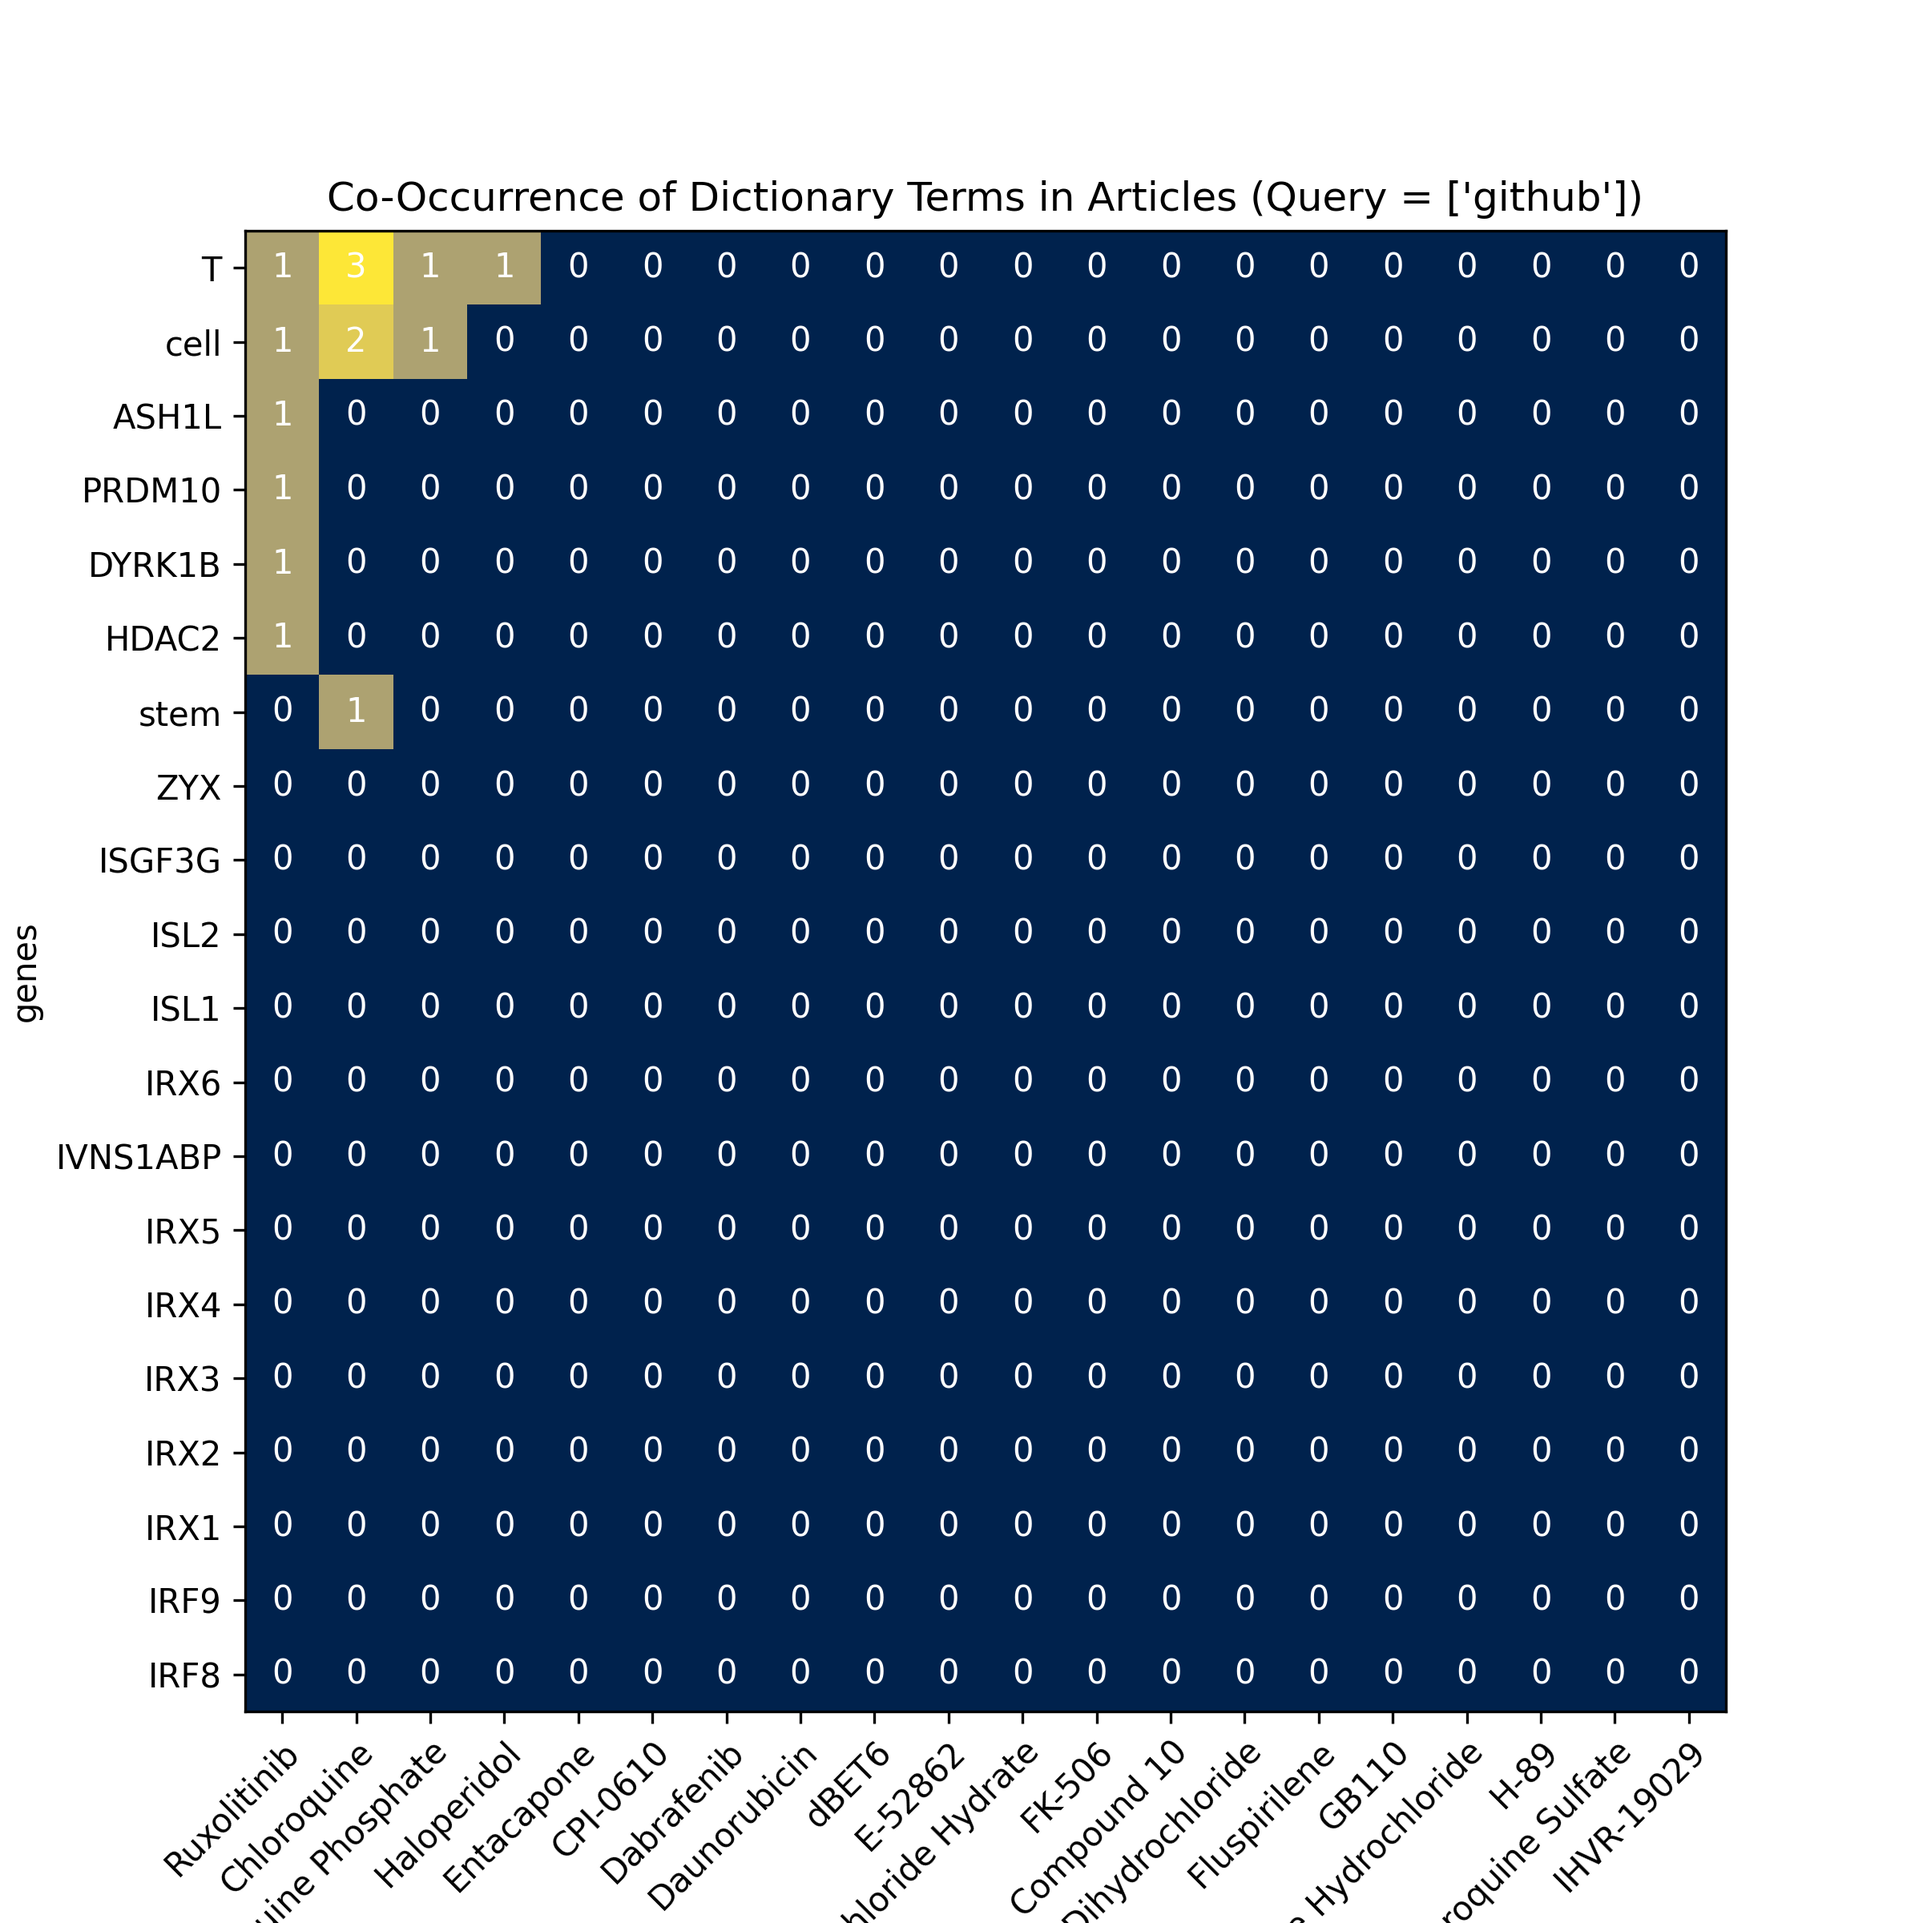
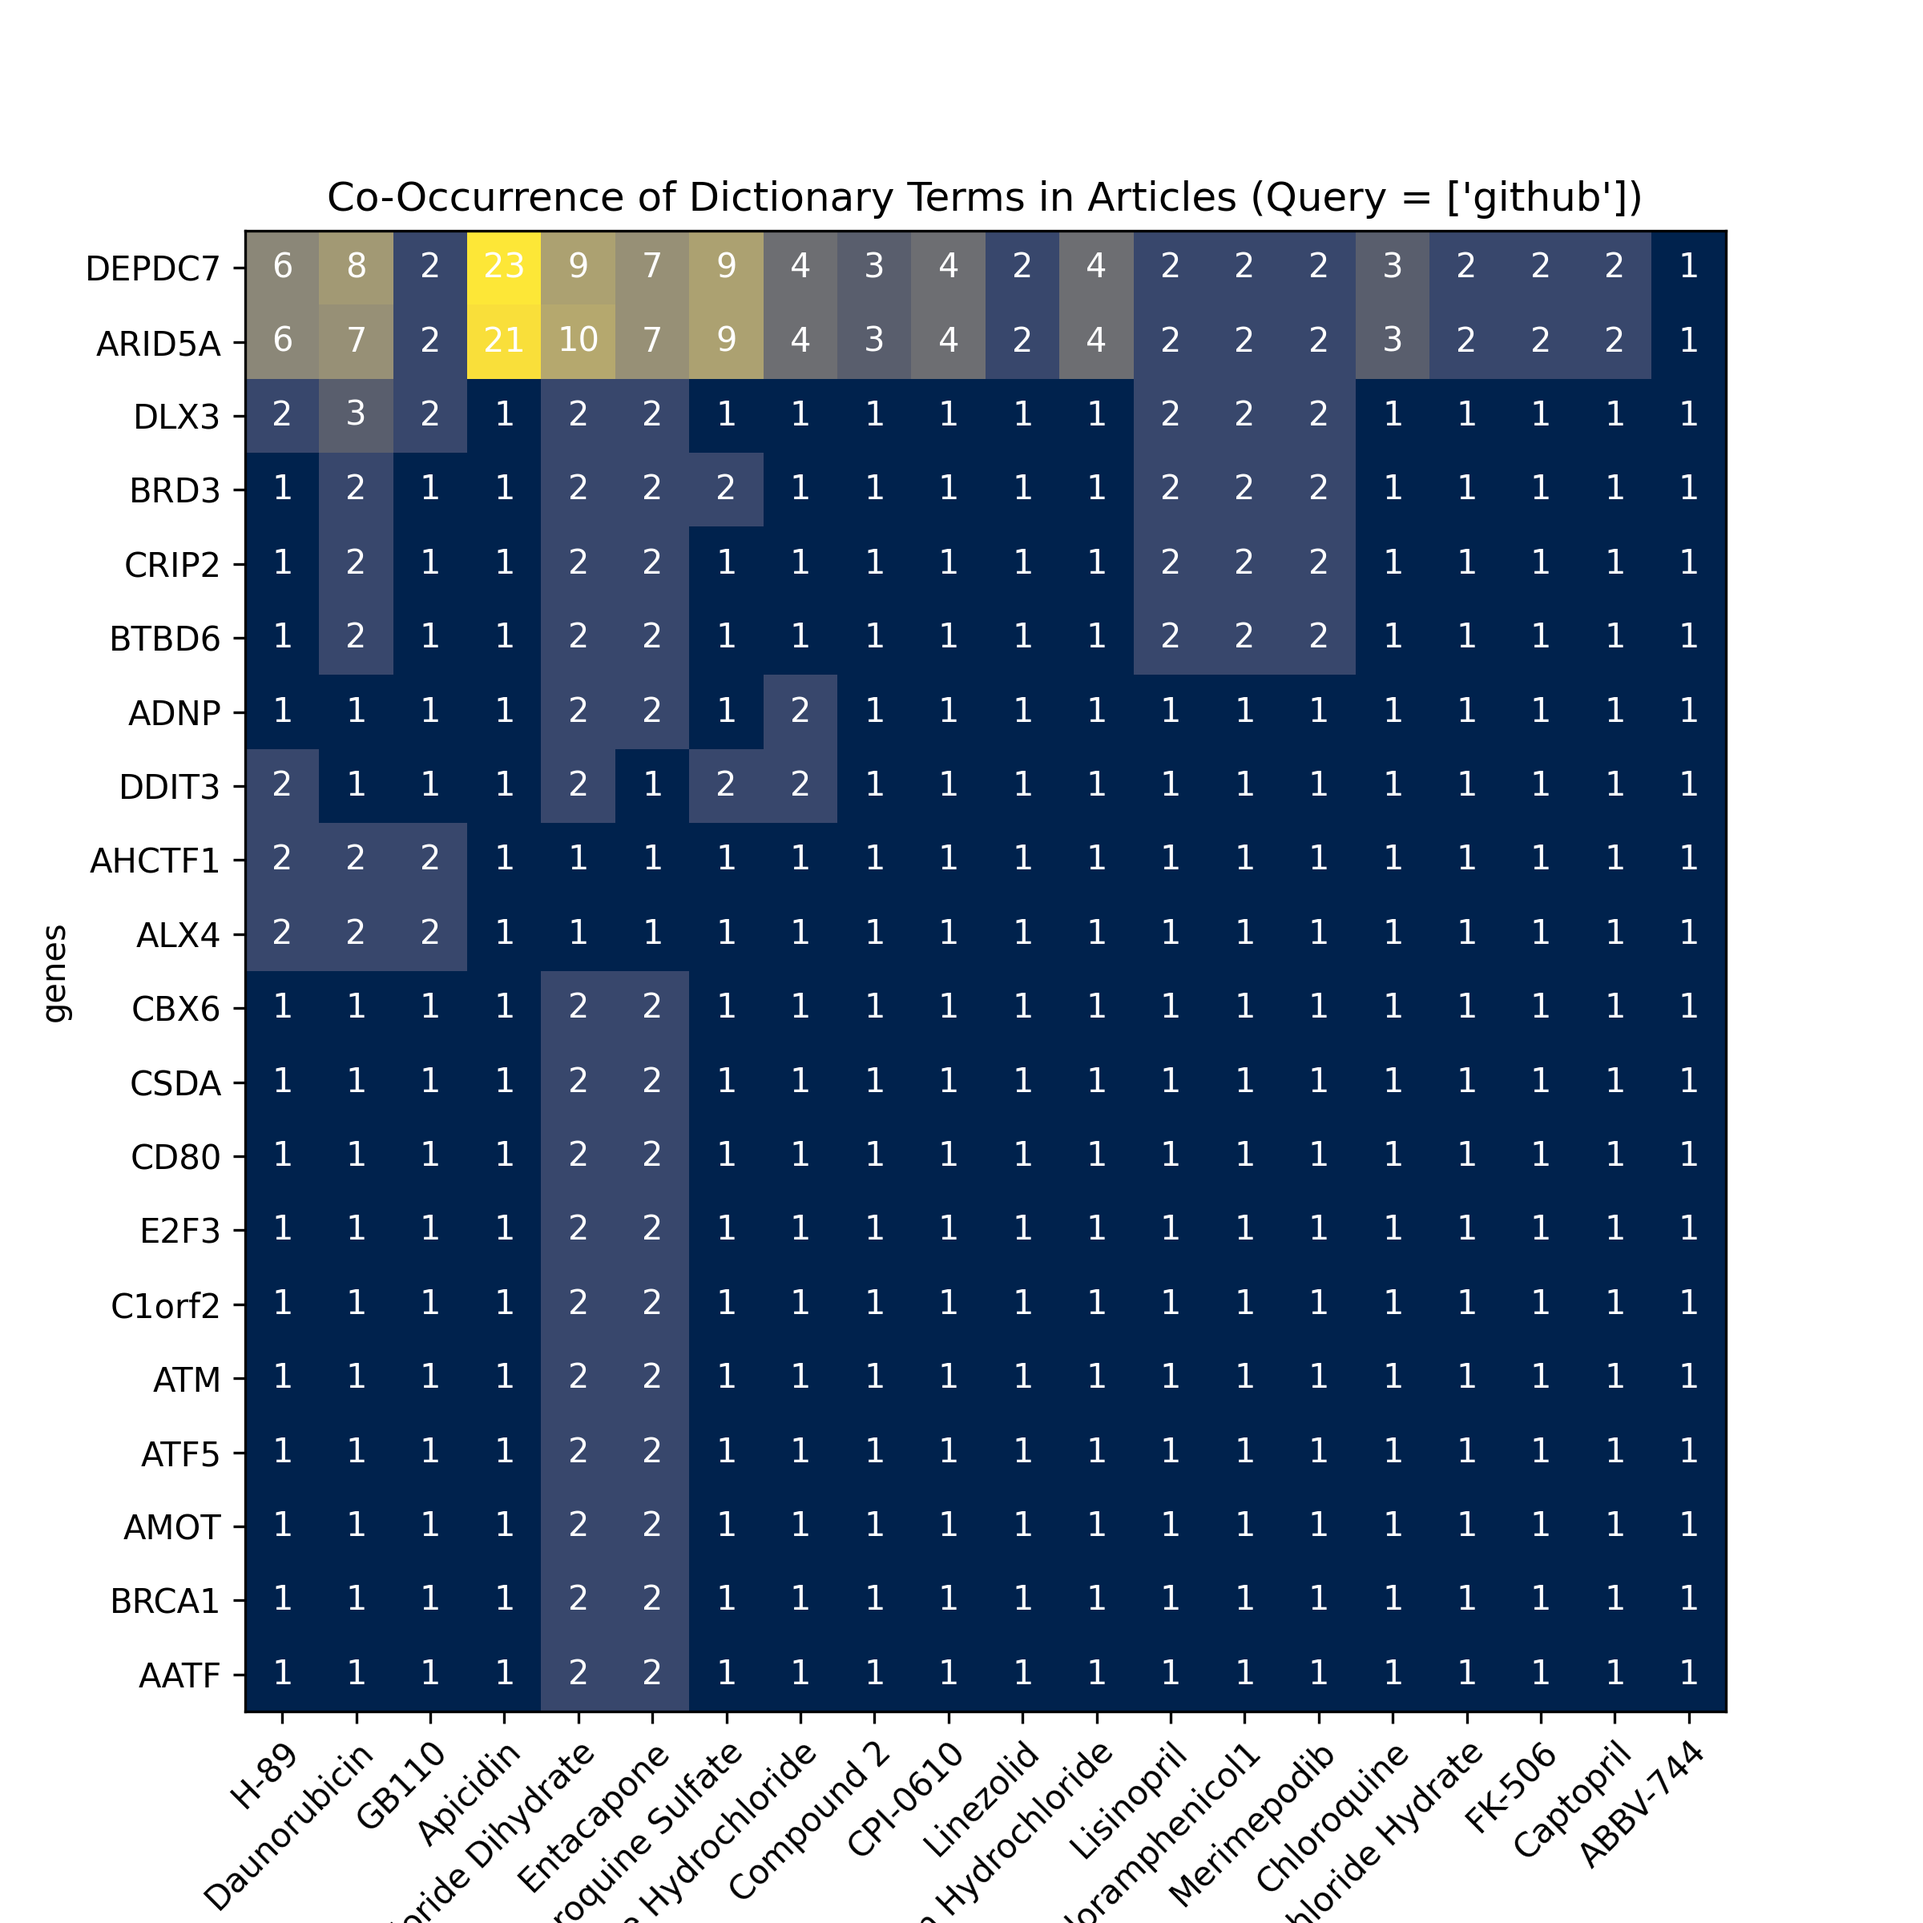
Update: remove empty rows & cols

diff --git a/python_sandbox/notebooks/xdd_cooccurrence.py b/python_sandbox/notebooks/xdd_cooccurrence.py
@@ -29,8 +29,10 @@ def build_coocc_matrix(
         'max': str(MAX_NUM_PER_PAGE),
         'include_score': 'true'
     },
+    remove_empty = True,
+    sort = True,
     plot: bool = True,
-    plot_savepath: str = './figures/coocc_matrix.png'
+    plot_savepath: str = '../figures/coocc_matrix.png'
     ) -> Any:
 
     # Plot result
@@ -38,22 +40,18 @@ def build_coocc_matrix(
 
         num_rows = len(dict_terms[0])
         num_cols = len(dict_terms[1])
+        m = min([num_top, num_rows])
+        n = min([num_top, num_cols])
 
-        # Sort array
-        i = np.argsort(np.sum(coocc, axis = 1))[::-1]
-        coocc = coocc[i, :]
-        j = np.argsort(np.sum(coocc, axis = 0))[::-1]
-        coocc = coocc[:, j]
-
-        # Re-order labels
-        labels_0 = np.array(list(dict_terms[0].keys()))[i]
-        labels_1 = np.array(list(dict_terms[1].keys()))[j]
-
+        # Labels
+        labels_0 = np.array(list(dict_terms[0].keys()))
+        labels_1 = np.array(list(dict_terms[1].keys()))
 
         fig, ax = plt.subplots(1, 1, figsize = (8, 8))
-        __ = ax.imshow(np.log10(coocc[:num_top, :num_top] + 0.1), cmap = 'cividis', origin = 'upper')
-        ax.set_xticks(np.arange(0, num_top), labels = labels_1[:num_top])
-        ax.set_yticks(np.arange(0, num_top), labels = labels_0[:num_top])
+        __ = ax.imshow(np.log10(coocc[:m, :n] + 0.1), cmap = 'cividis', origin = 'upper')
+
+        ax.set_xticks(np.arange(0, n), labels = labels_1[:n])
+        ax.set_yticks(np.arange(0, m), labels = labels_0[:m])
 
         __ = plt.setp(ax, 
             xlabel = params['dict'].split(',')[1], 
@@ -62,8 +60,8 @@ def build_coocc_matrix(
         )
         __ = plt.setp(ax.get_xticklabels(), rotation = 45, ha = 'right', rotation_mode = 'anchor')
 
-        for i in np.arange(0, num_top):
-            for j in np.arange(0, num_top):
+        for i in np.arange(m):
+            for j in np.arange(n):
                 __ = ax.text(j, i, f"{coocc[i, j]:d}", ha = 'center', va = 'center', color = 'w')
 
         return fig
@@ -168,6 +166,28 @@ def build_coocc_matrix(
                 pbar.update(1)
                 next_page = r.json()['success']['next_page']
 
+    # Remove empty rows & columns
+    if remove_empty == True:
+        i = np.sum(coocc, axis = 1) != 0
+        j = np.sum(coocc, axis = 0) != 0
+        coocc_ = coocc[i, :]
+        coocc_ = coocc_[:, j]
+        coocc = coocc_
+        print(f"Non-empty matrix shape: {coocc.shape[0]} x {coocc.shape[1]}")
+
+    # Sort rows & columns
+    if sort == True:
+        i = np.argsort(np.sum(coocc, axis = 1))[::-1]
+        coocc = coocc[i, :]
+        j = np.argsort(np.sum(coocc, axis = 0))[::-1]
+        coocc = coocc[:, j]
+
+        # Re-order labels
+        labels_0 = np.array(list(dict_terms[0].keys()))[i]
+        labels_1 = np.array(list(dict_terms[1].keys()))[j]
+
+        dict_terms[0] = {l: i for i, l in enumerate(labels_0)}
+        dict_terms[1] = {l: i for i, l in enumerate(labels_1)}
 
     # Optional plotting
     if plot == True:
@@ -176,7 +196,24 @@ def build_coocc_matrix(
 
     return coocc, dict_terms, params
 
+# %%[markdown]
+## Default - Top N, Ranked
+
 # %%
 coocc, dict_terms, params = build_coocc_matrix()
+
+# %%[markdown]
+## Option - Full Results, Unranked
+
+params = {
+    'dataset': 'xdd-covid-19', 
+    'term': 'github',
+    'dict': 'genes,covid-19_drugs', 
+    'full_results': 'true',
+    'max': str(MAX_NUM_PER_PAGE),
+    'include_score': 'true'
+}
+
+coocc, dict_terms, params = build_coocc_matrix(params = params)
 
 # %%

diff --git a/python_sandbox/README.md b/python_sandbox/README.md
@@ -1,6 +1,6 @@
 # Python Sandbox
 
-To run the notebooks in this sandbox, create a Python 3 virtual environment and install the modules in the `requirements.txt` as follows:
+To run the notebooks in this sandbox, create a Python 3 virtual environment and install the modules in `requirements.txt` as follows:
 
 ```
 python3 -m venv .venv
